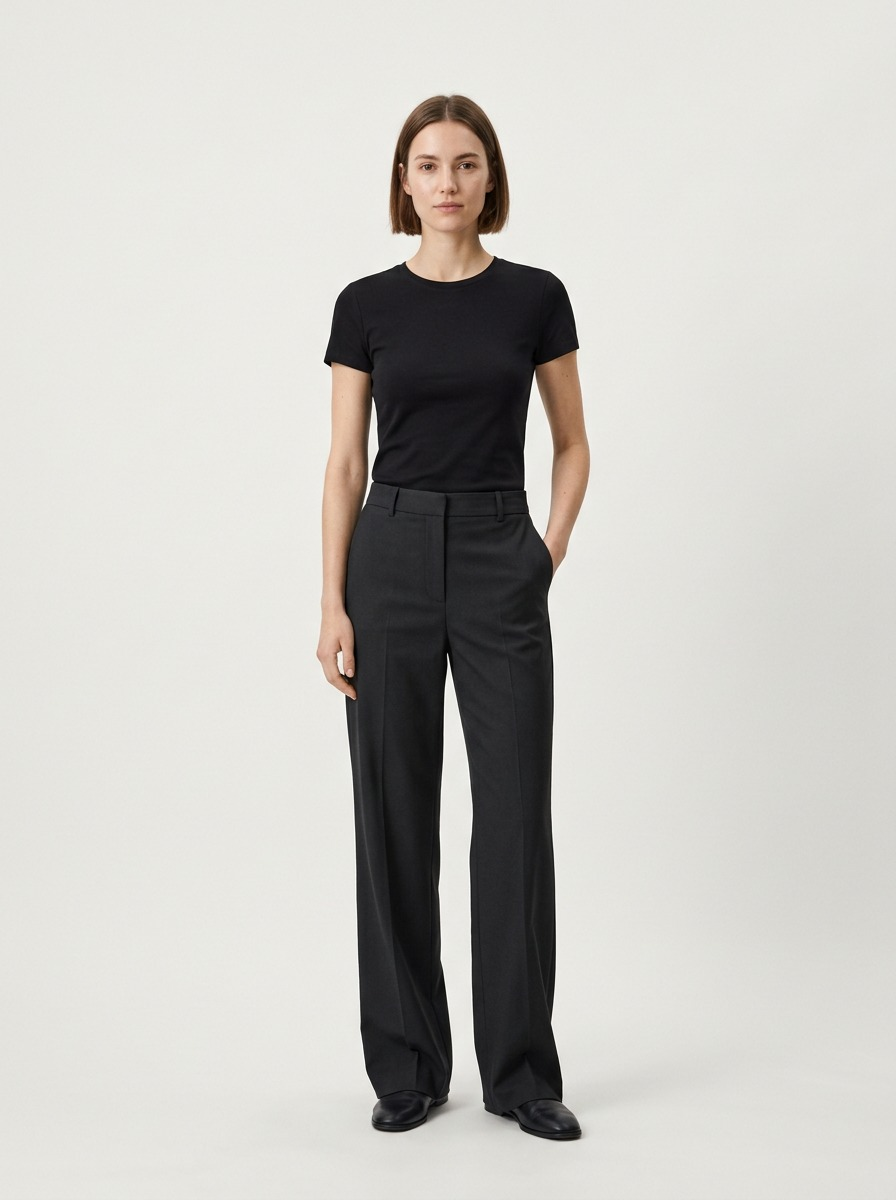
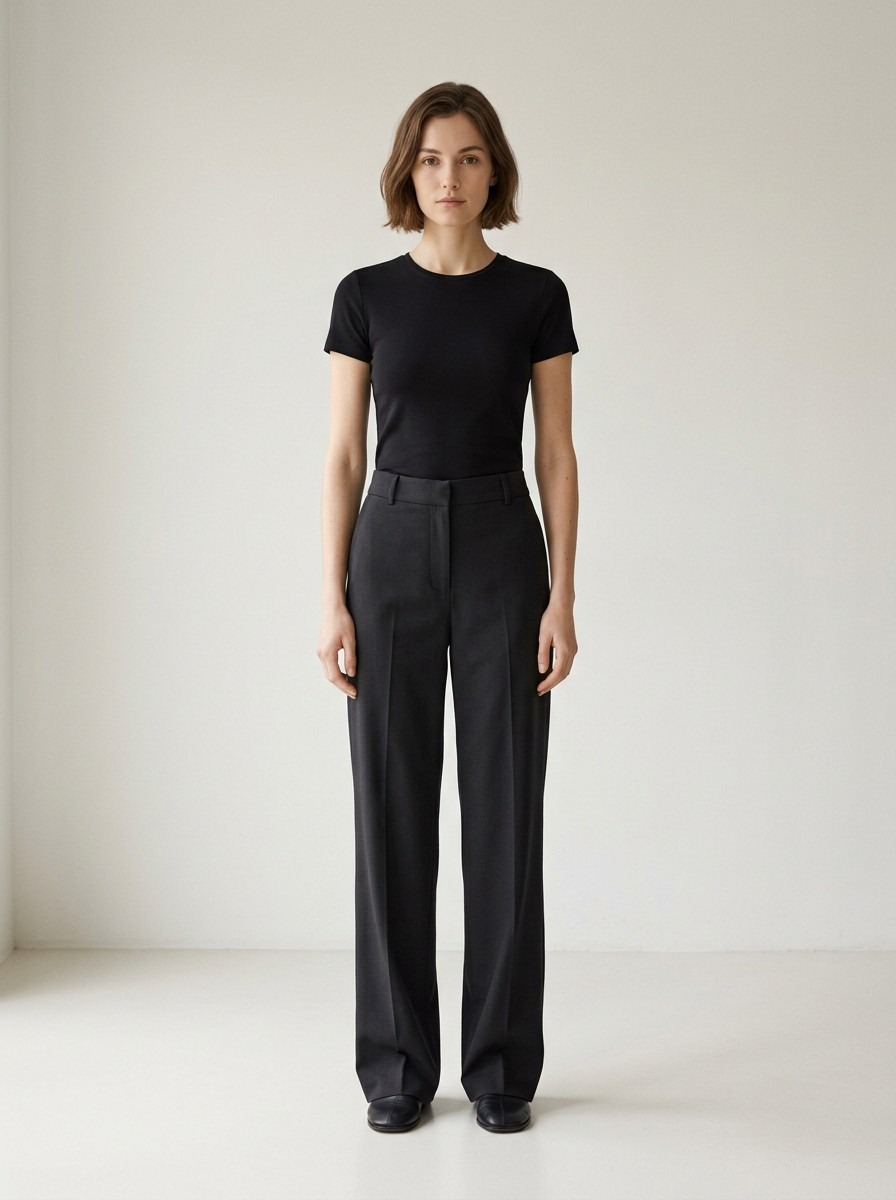
fas

diff --git a/src/lib/tr/aiModel/prompts.ts b/src/lib/tr/aiModel/prompts.ts
@@ -1,18 +1,23 @@
 /**
  * Locked prompts for platform studio models + try-on (Zara / product-first).
+ *
+ * Room + pose rules (from Zara lookbook refs):
+ * - Simple interior: light wall + visible floor, soft side light — not an infinite void.
+ * - Elegant standing pose; arms relaxed or lightly behind back — never invent pockets/hands-in-pockets.
+ * - Preserve garment exactly; do not add pockets, slits, buttons, or trim not in the product image.
  */
 
 /** Default try-on prompt — garment is the hero. */
 export const NATURAL_TRYON_PROMPT =
-  "Zara e-commerce lookbook. Keep the model natural and understated so the garment is the focus. True fabric color, texture, and fit from the product image. Soft diffused studio light, plain light backdrop, photoreal skin and cloth, clean sharp product detail. No beauty retouching, no plastic skin, no heavy makeup, no dramatic pose, no busy background.";
+  "Zara e-commerce lookbook in a very simple room: plain light off-white wall and a clean matte floor meeting at a clear baseboard line, soft natural side light, gentle realistic shadow. Keep the model natural and understated so the garment is the focus. True fabric color, texture, cut, and length from the product image only — do not invent pockets, hand-in-pocket poses, extra buttons, slits, belts, or other details not visible on the product. Simple elegant standing pose, arms relaxed at the sides or lightly behind the back, calm neutral expression, no dramatic gesture. Photoreal skin and cloth, clean sharp product detail. No beauty retouching, no plastic skin, no heavy makeup, no busy background, no infinite empty void backdrop.";
 
 /** Ops: generate Ayla reference via FASHN model-create. */
 export const STUDIO_AYLA_MODEL_CREATE_PROMPT =
-  "Full-body fashion e-commerce photo, Zara catalog style. Young woman, slender, natural no-makeup look, short brown bob, relaxed neutral expression. Plain off-white studio backdrop, soft diffused front-left light, subtle realistic shadow. Simple fitted black short-sleeve top and high-waisted dark wide-leg trousers, one hand in pocket, calm standing pose facing camera. Photoreal skin texture, natural fabric folds, sharp product detail, quiet luxury, not CGI, not airbrushed, not beauty campaign.";
+  "Full-body fashion e-commerce photo, Zara catalog style. Young woman, slender, natural no-makeup look, short brown bob, relaxed neutral expression. Standing in a very simple room: plain light off-white wall, clean matte floor, soft natural side light, subtle realistic shadow — not an infinite void. Simple fitted black short-sleeve top and high-waisted dark wide-leg trousers. Calm elegant standing pose facing camera, arms relaxed at her sides, no hands in pockets. Photoreal skin texture, natural fabric folds, sharp product detail, quiet luxury, not CGI, not airbrushed, not beauty campaign.";
 
 /** Ops: generate Deniz reference via FASHN model-create. */
 export const STUDIO_DENIZ_MODEL_CREATE_PROMPT =
-  "Full-body fashion e-commerce photo, Zara catalog style. Young man, slender athletic build, natural grooming, short neat hair, relaxed neutral expression. Plain off-white studio backdrop, soft diffused front-left light, subtle realistic shadow. Simple fitted black crewneck tee and dark tailored trousers, calm standing pose facing camera, arms relaxed. Photoreal skin texture, natural fabric folds, sharp product detail, quiet luxury, not CGI, not airbrushed, not beauty campaign.";
+  "Full-body fashion e-commerce photo, Zara catalog style. Young man, slender athletic build, natural grooming, short neat hair, relaxed neutral expression. Standing in a very simple room: plain light off-white wall, clean matte floor, soft natural side light, subtle realistic shadow — not an infinite void. Simple fitted black crewneck tee and dark tailored trousers. Calm elegant standing pose facing camera, arms relaxed at his sides or lightly behind his back, no hands in pockets. Photoreal skin texture, natural fabric folds, sharp product detail, quiet luxury, not CGI, not airbrushed, not beauty campaign.";
 
 export const STUDIO_MODEL_CREATE_ASPECT_RATIO = "3:4";
 

diff --git a/src/lib/tr/fashn/modelCreate.ts b/src/lib/tr/fashn/modelCreate.ts
@@ -61,7 +61,7 @@ export async function generateFashnModelCreate(
       aspect_ratio: params.aspectRatio ?? STUDIO_MODEL_CREATE_ASPECT_RATIO,
       resolution: params.resolution ?? getFashnDefaultResolution(),
       generation_mode: params.generationMode ?? getFashnDefaultMode(),
-      output_format: "jpg",
+      output_format: "jpeg",
     };
     const imageRef = params.imageReferenceUrl?.trim();
     if (imageRef) inputs.image_reference = imageRef;

diff --git a/docs/agent-handoffs/06-sell-enablement.md b/docs/agent-handoffs/06-sell-enablement.md
@@ -27,7 +27,7 @@ Boutique owners polish product photos in create/edit:
 **Studio models (always available):**
 - `studio:ayla` (woman) → `public/tr/ai-models/studio-ayla.jpg` (or `TR_AI_STUDIO_AYLA_REF_URLS` / `NEXT_PUBLIC_…`)
 - `studio:deniz` (man) → `public/tr/ai-models/studio-deniz.jpg` (or env override)
-- Locked prompts: `src/lib/tr/aiModel/prompts.ts` (`NATURAL_TRYON_PROMPT`, Ayla/Deniz `model-create` prompts)
+- Locked prompts: `src/lib/tr/aiModel/prompts.ts` (`NATURAL_TRYON_PROMPT`, Ayla/Deniz `model-create` prompts) — simple room (wall + floor), no void; no invented pockets / hands-in-pockets; regenerate refs with `npm run tr:generate-studio-models`
 - Regenerate refs: `npm run tr:generate-studio-models` (needs `FASHN_API_KEY`)
 - Boutique extras: add a row in `BOUTIQUE_AI_MODELS` in `registry.ts` — **no** owner upload/create UI
 
